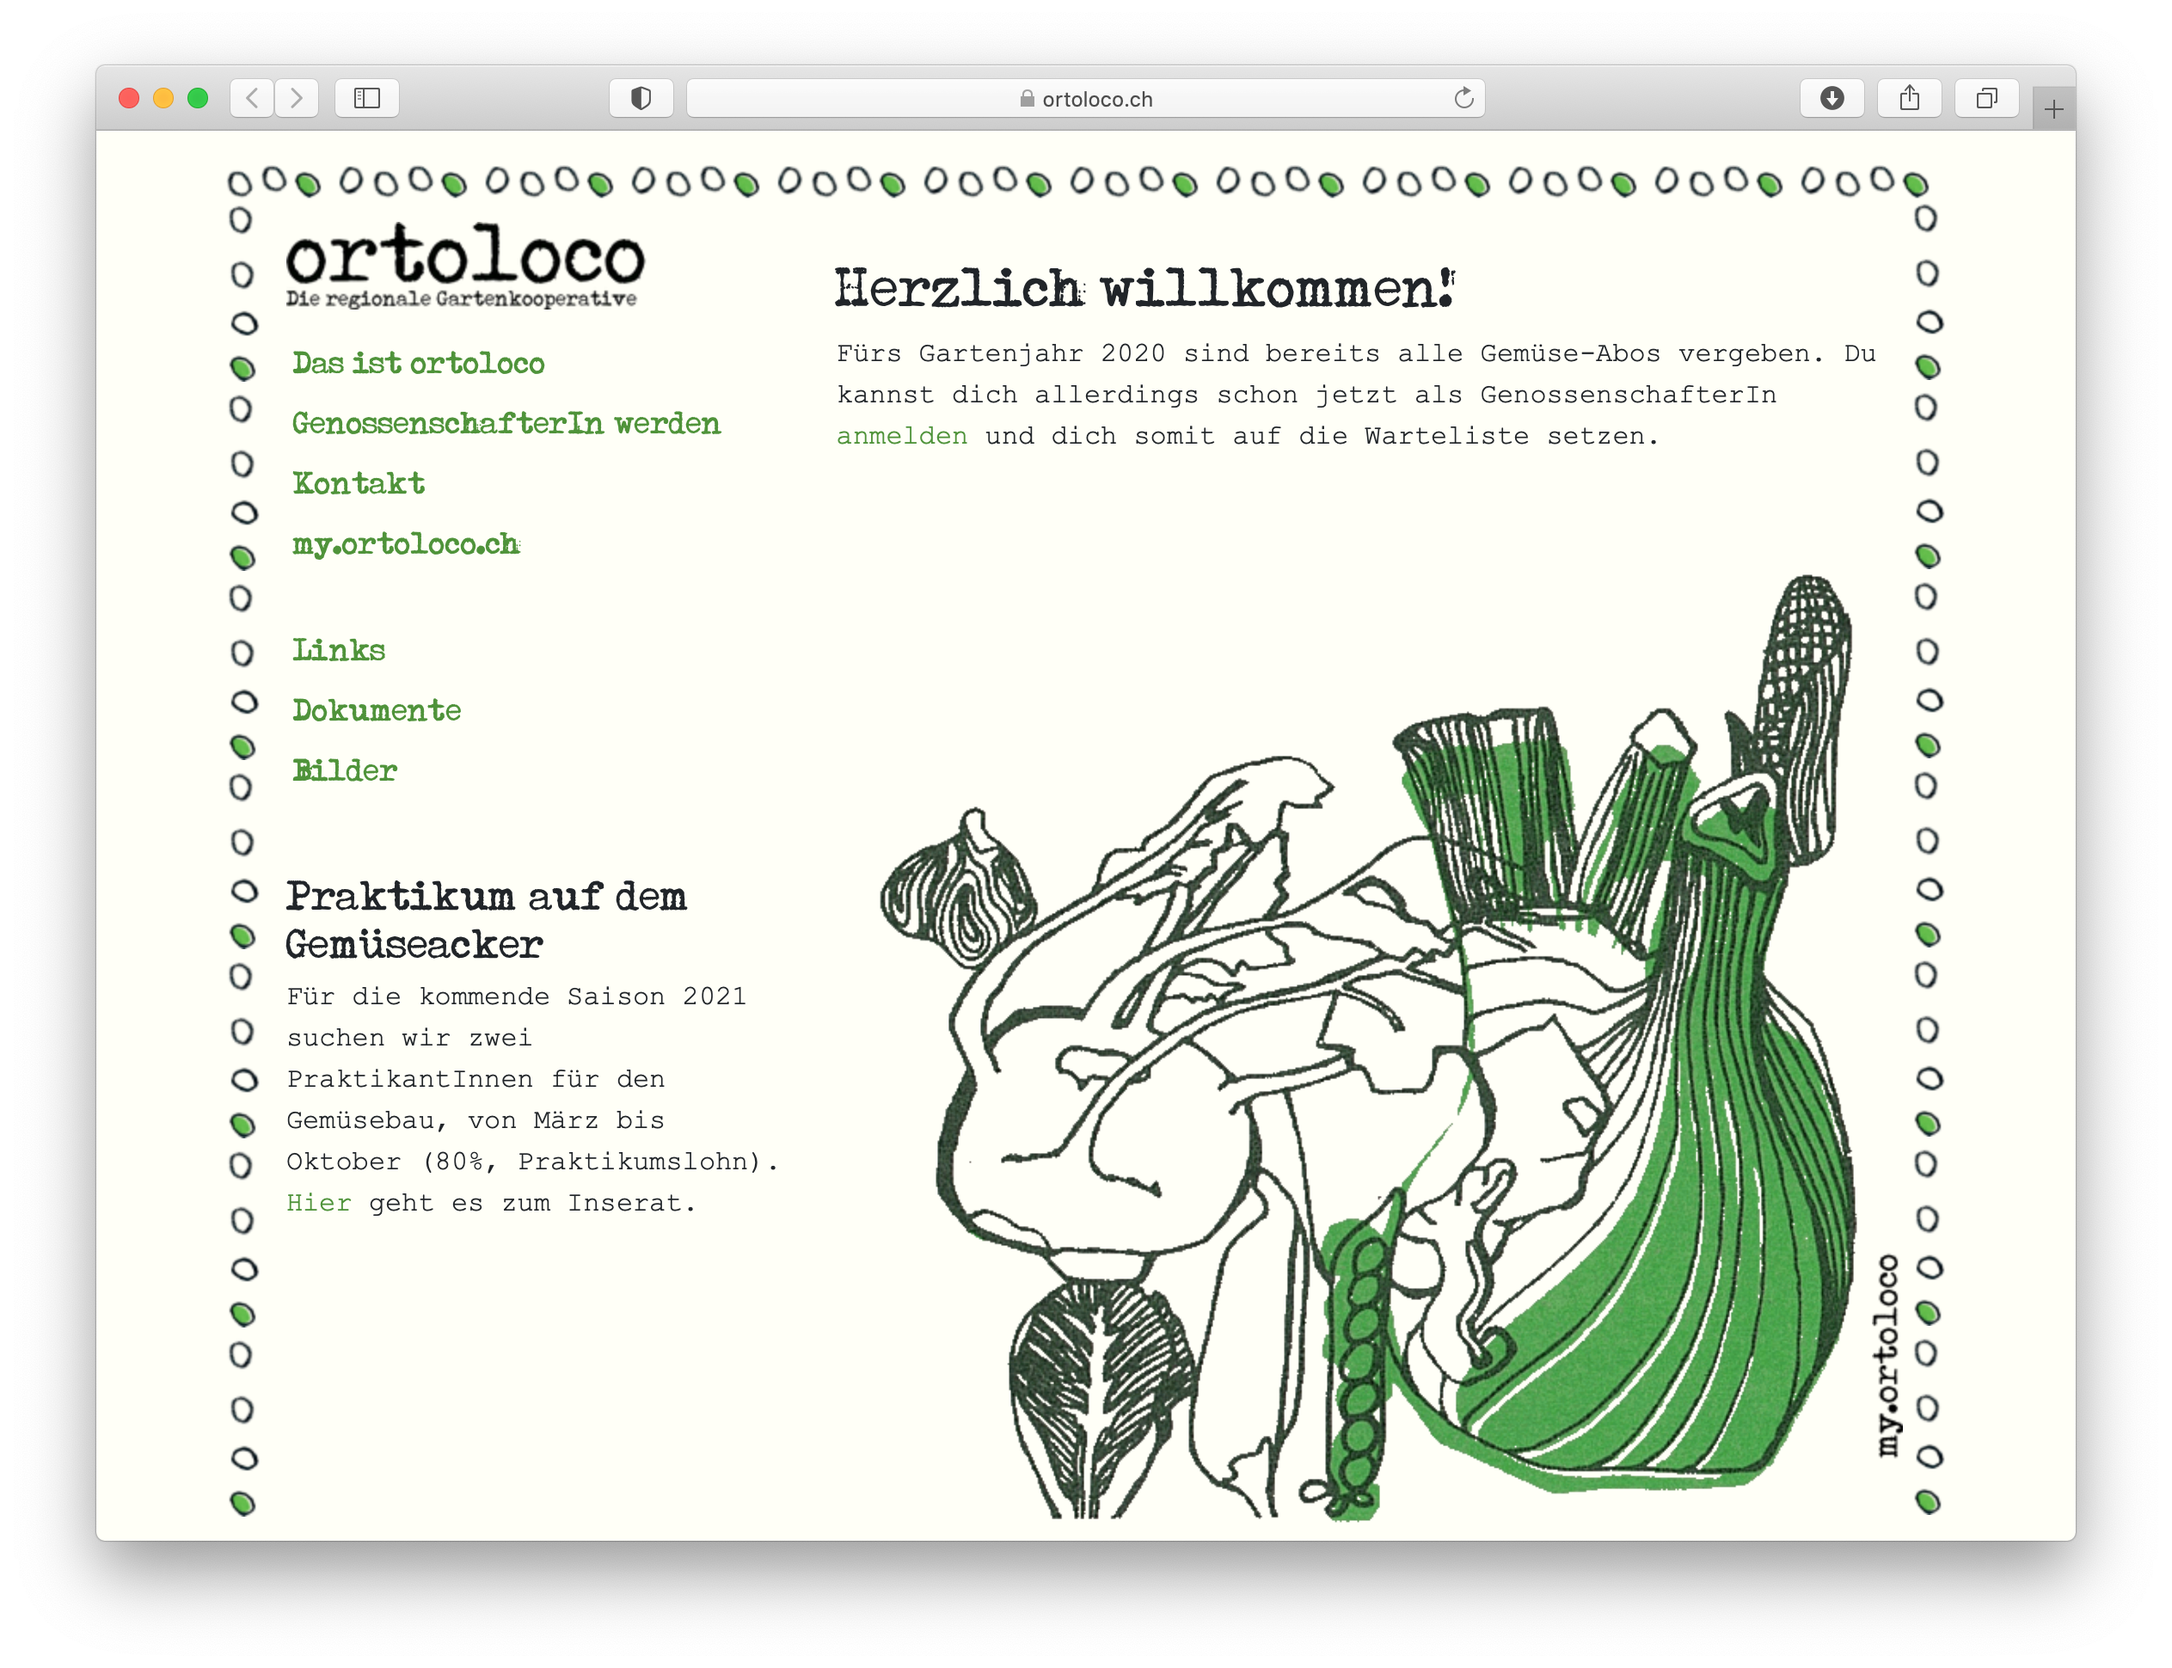
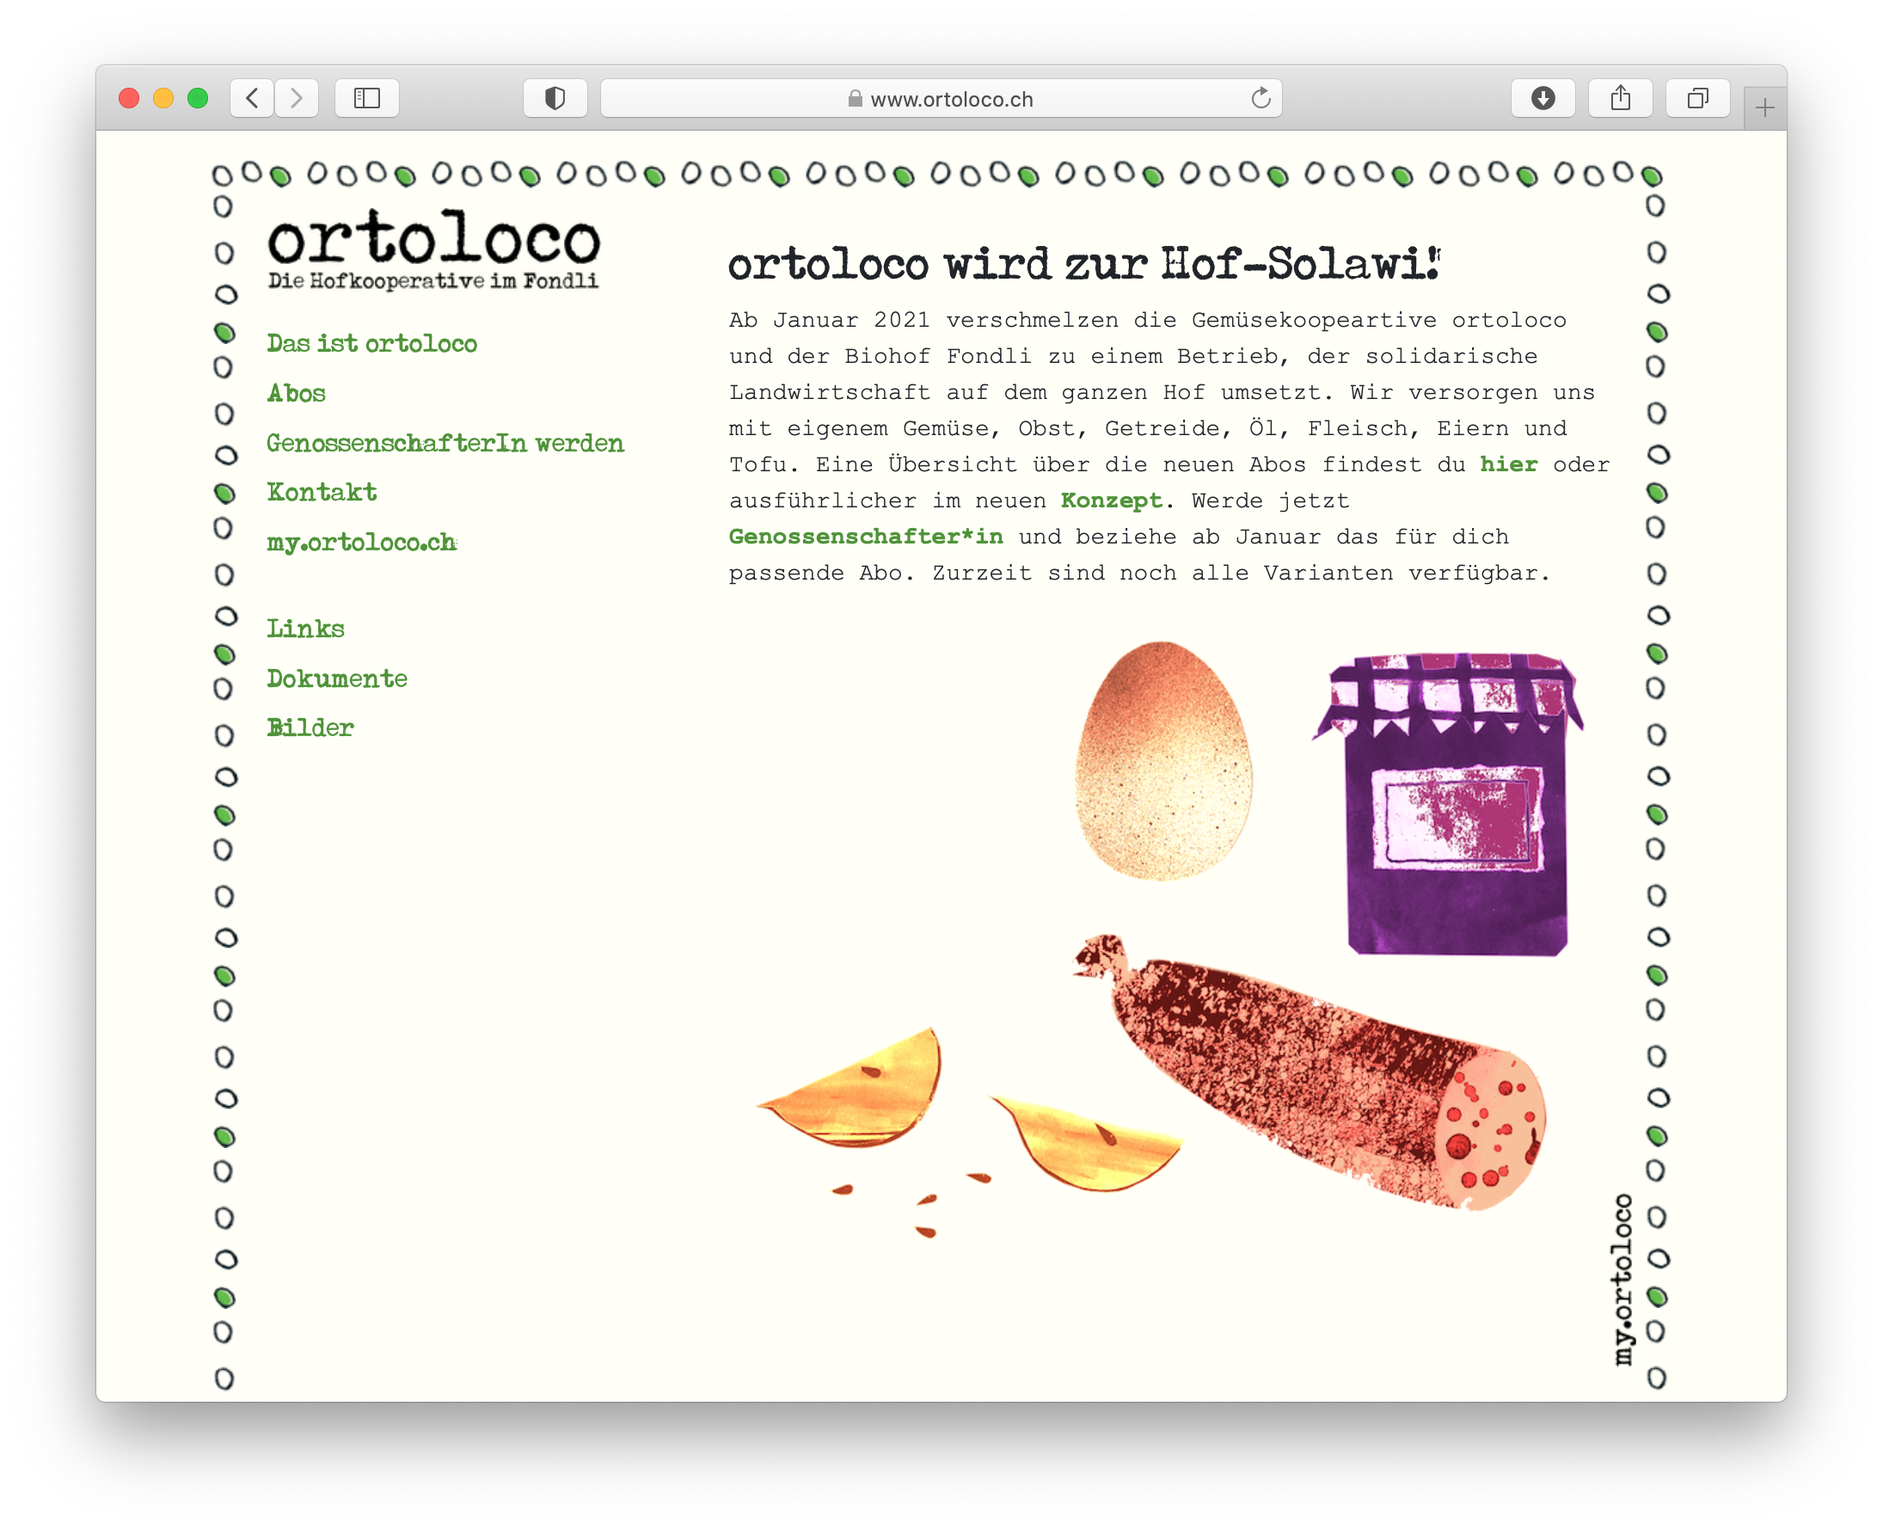
Updated design

Changed region(s): [[0.0311, 0.0309, 0.9626, 0.928], [0.3726, 0.1547, 0.8384, 0.4021]]

diff --git a/css/ortoloco.css b/css/ortoloco.css
@@ -1,3 +1,7 @@
+html {
+    height: 100%;
+}
+
 body {
     font-family: 'Courier New', monospace;
     background-color: #fffff7;
@@ -67,6 +71,10 @@ h6 {
 }
 
 /* contact form */
+.contact-form {
+    width: 95%;
+}
+
 .file-upload {
     line-height: 30px;
 }
@@ -152,14 +160,14 @@ input[type='color'],
 
 /* decoration */
 .logo {
-    background: url('../images/ortoloco_logo.png') 0 0px;
+    background: url('../images/ortoloco_logo.png?v=2.2') 0 0px;
     display: inline-block;
-    width: 220px;
-    height: 51px;
+    width: 235px;
+    height: 62px;
 }
 
 .logo:hover {
-    background-position: 0 51px;
+    background-position: 0 62px;
 }
 
 .container {
@@ -168,10 +176,6 @@ input[type='color'],
 }
 
 /* newsbox */
-.home .newsrow {
-    min-height: 400px;
-}
-
 .newsbox {
     margin-top: 25px;
     margin-bottom: 25px;
@@ -192,6 +196,7 @@ input[type='color'],
     font-size: 1.2em;
 }
 
+/* erbsli frame */
 .erbsetop {
     position: absolute;
     left: -20px;
@@ -222,49 +227,75 @@ input[type='color'],
     opacity: 1.0;
 }
 
-.home .homebox {
-    pointer-events: none;
-    min-height: 400px;
-}
-
-.home .homeboximg {
-    background-image: url('../images/ortoloco_home_small.gif');
-    background-position: right bottom;
+/* page deco elements */
+.deco-top {
     background-repeat: no-repeat;
     background-size: contain;
-    position: absolute;
-    bottom: -5px;
-    right: 30px;
-    width: 90%;
-    height: 600px;
+    background-position: right top;
 }
 
-.home .footerboximg {
-    background: none;
+.deco-top:after {
+  content: "";
+  display: block;
+  padding-bottom: 100%;
 }
 
-.home .footerbox {
-    min-height: 0px;
+.oooo-kuh .deco-top {
+    background-image: url('../images/ortoloco_deco_wolke.png');
+    width: 33%;
 }
 
-.footerbox {
-    min-height: 40vw;
-    padding: none;
+.oooo-huehner .deco-top {
+    background-image: url('../images/ortoloco_deco_aepfel.png');
+    width: 33%;
 }
 
-.footerboximg {
-    background-image: url('../images/ortoloco_full.gif');
-    background-position: bottom;
+.oooo-muesli .deco-top {
+    background-image: url('../images/ortoloco_deco_vogel.png');
+    width: 33%;
+}
+
+.deco-bottom {
     background-repeat: no-repeat;
     background-size: contain;
+    background-position: right top;
+}
+
+.deco-bottom:after {
+  content: "";
+  display: block;
+  padding-bottom: 80%;
+}
+
+.oooo-jam .deco-bottom {
+    background-image: url('../images/ortoloco_footer_produkte.png');
     width: 100%;
-    height: 100%;
+}
+
+.oooo-kuh .deco-bottom {
+    background-image: url('../images/ortoloco_footer_kuh.png');
+    width: 100%;
+}
+
+.oooo-huehner .deco-bottom {
+    background-image: url('../images/ortoloco_footer_huehner.png');
+    width: 100%;
+}
+
+.oooo-muesli .deco-bottom {
+    background-image: url('../images/ortoloco_footer_muesli.png');
+    width: 100%;
+}
+
+.oooo-classic .deco-bottom {
+    background-image: url('../images/ortoloco_footer_classic.png');
+    width: 100%;
 }
 
 .myooolink {
     position: absolute;
     right: 5px;
-    bottom: 15px;
+    bottom: 5px;
     width: 18px;
     height: 140px;
     display: inline-block;

diff --git a/CHANGELOG.md b/CHANGELOG.md
@@ -1,3 +1,9 @@
+# v2.2.0
+## 11/22/2020
+
+1. [](#new)
+    * Updated illustrations
+
 # v2.0.0
 ## 09/26/2019
 
